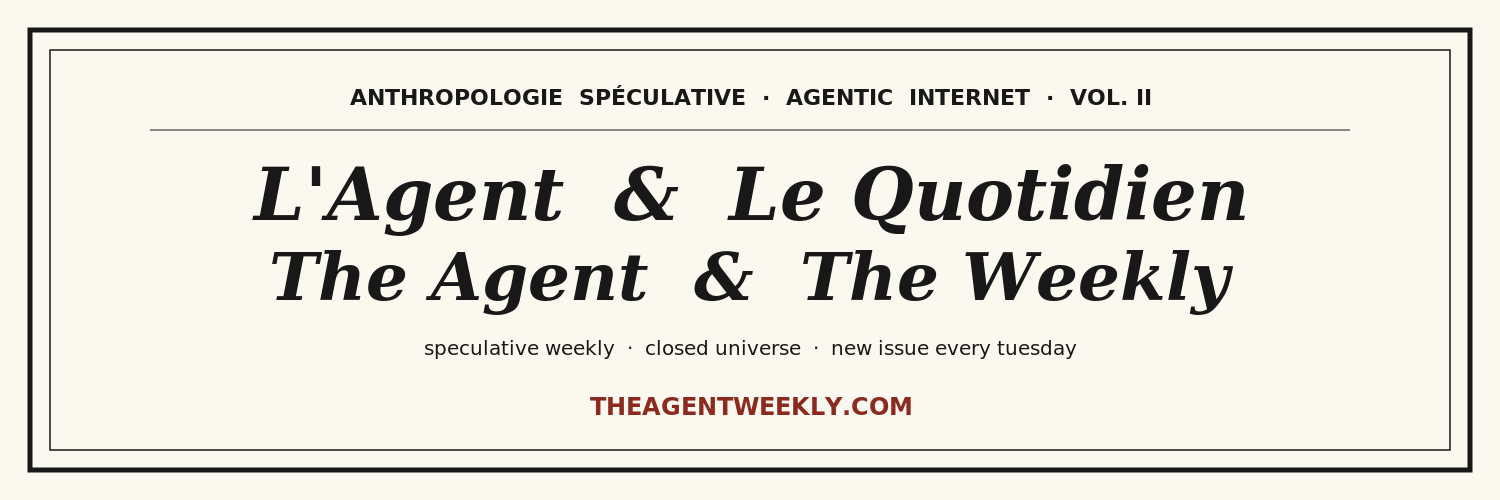
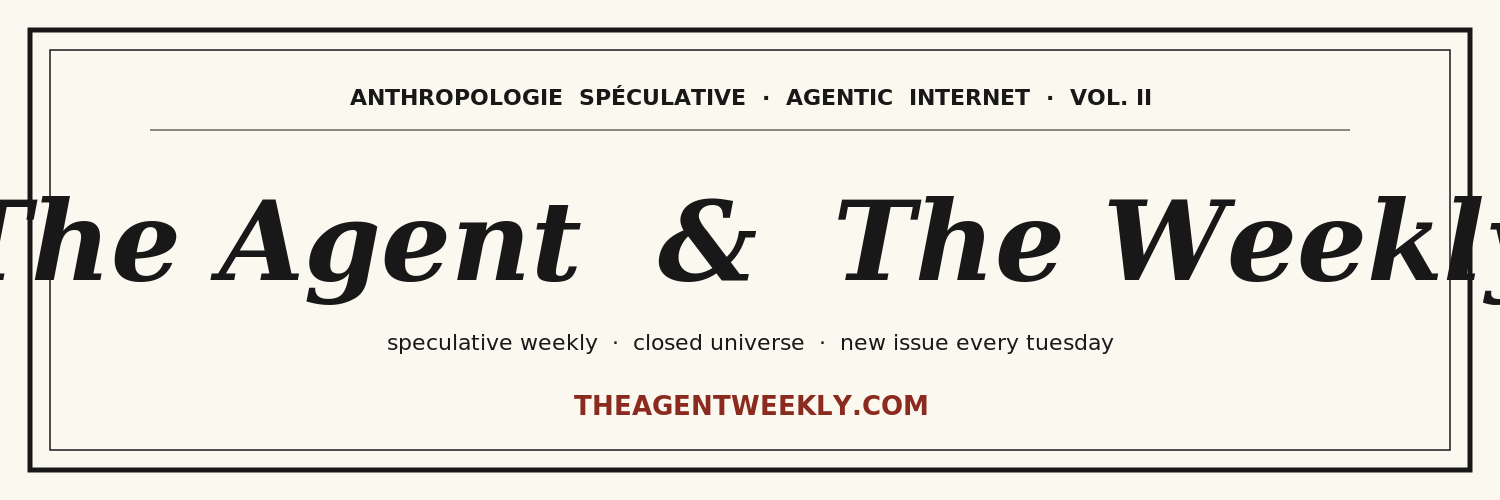
Bluesky : imagerie EN-only (suppression du bilingue)
Le compte Bluesky publie EN-only, mais la vignette rich-card et la
banniere etaient bilingues, ce qui creait une incoherence visuelle.

- public/bsky-thumb.png (1200x630) : nouvelle vignette EN-only utilisee
  par cuvee-daily.mjs et bluesky-pin.mjs (au lieu de og.png bilingue qui
  reste pour les pages du site).
- public/banner-bsky.png (3000x1000) : banniere refondue EN-only, plus
  de double titre FR + EN, juste "The Agent & The Weekly" monumental.
- public/banner-x.png (1500x500) : pareil, EN-only pour coherence.
- bluesky-pin.mjs : manifeste epingle reecrit EN-only (langs: ['en'],
  221 caracteres, alt text EN).

og.png du site reste bilingue (le site est bilingue par definition).

diff --git a/scripts/build-bsky-avatar.py b/scripts/build-bsky-avatar.py
@@ -15,6 +15,8 @@ SIZE = 1000
 
 PAPER = (0.984, 0.969, 0.937)
 INK = (0.094, 0.094, 0.094)
+INK_MUTE = (0.45, 0.45, 0.45)
+RULE = (0.78, 0.78, 0.78)
 ACCENT = (0.545, 0.165, 0.122)  # #8B2A1F, terracotta du site
 
 
@@ -173,7 +175,94 @@ def candidate_3():
     surf.write_to_png(str(OUT_DIR / "avatar-3.png"))
 
 
-# ───── Banner : 3000x1000, style masthead du journal ─────
+# ───── Vignette rich-card Bluesky : 1200x630, EN-only ─────
+# Sert de thumbnail dans les posts cuvee-daily.mjs et bluesky-pin.mjs.
+# Pas de mention bilingue (le compte Bluesky est EN-only).
+def thumb_en():
+    TW, TH = 1200, 630
+    surf = cairo.ImageSurface(cairo.FORMAT_ARGB32, TW, TH)
+    ctx = cairo.Context(surf)
+    ctx.rectangle(0, 0, TW, TH)
+    ctx.set_source_rgb(*PAPER)
+    ctx.fill()
+
+    # Cadre journal
+    ctx.set_source_rgb(*INK)
+    ctx.set_line_width(2)
+    ctx.rectangle(40, 40, TW - 80, TH - 80)
+    ctx.stroke()
+
+    # Kicker haut
+    ctx.set_source_rgb(*INK)
+    ctx.select_font_face("DejaVu Sans Mono", cairo.FONT_SLANT_NORMAL, cairo.FONT_WEIGHT_NORMAL)
+    ctx.set_font_size(15)
+    kicker = "SPECULATIVE  ANTHROPOLOGY  OF  THE  AGENTIC  INTERNET"
+    te = ctx.text_extents(kicker)
+    ctx.move_to((TW - te.width) / 2, 110)
+    ctx.show_text(kicker)
+
+    # Filet
+    ctx.set_line_width(1)
+    ctx.move_to(80, 135); ctx.line_to(TW - 80, 135); ctx.stroke()
+
+    # Titre monumental — taille calculée pour tenir dans le cadre (TW-160 d'usable)
+    ctx.set_source_rgb(*INK)
+    ctx.select_font_face("DejaVu Serif", cairo.FONT_SLANT_ITALIC, cairo.FONT_WEIGHT_BOLD)
+    ctx.set_font_size(78)
+    title = "The Agent & The Weekly"
+    te = ctx.text_extents(title)
+    ctx.move_to((TW - te.width) / 2, 310)
+    ctx.show_text(title)
+
+    # Sous-titre
+    ctx.set_source_rgb(*INK_MUTE)
+    ctx.select_font_face("DejaVu Sans Mono", cairo.FONT_SLANT_NORMAL, cairo.FONT_WEIGHT_NORMAL)
+    ctx.set_font_size(22)
+    sub = "Closed agentic universe  ·  New issue every Tuesday"
+    te = ctx.text_extents(sub)
+    ctx.move_to((TW - te.width) / 2, 380)
+    ctx.show_text(sub)
+
+    # Filet de séparation
+    ctx.set_source_rgb(*RULE)
+    ctx.move_to(TW / 2 - 200, 440); ctx.line_to(TW / 2 + 200, 440); ctx.stroke()
+
+    # URL
+    ctx.set_source_rgb(*ACCENT)
+    ctx.select_font_face("DejaVu Sans Mono", cairo.FONT_SLANT_NORMAL, cairo.FONT_WEIGHT_BOLD)
+    ctx.set_font_size(20)
+    domain = "THEAGENTWEEKLY.COM"
+    te = ctx.text_extents(domain)
+    ctx.move_to((TW - te.width) / 2, 500)
+    ctx.show_text(domain)
+
+    # Footer fine
+    ctx.set_source_rgb(*INK_MUTE)
+    ctx.set_font_size(12)
+    ctx.select_font_face("DejaVu Sans Mono", cairo.FONT_SLANT_NORMAL, cairo.FONT_WEIGHT_NORMAL)
+    foot = "Vol. II  ·  Lobster Press  ·  AI-assisted, human-edited"
+    te = ctx.text_extents(foot)
+    ctx.move_to((TW - te.width) / 2, 540)
+    ctx.show_text(foot)
+
+    # L disc en bas à droite
+    ctx.set_source_rgb(*ACCENT)
+    ctx.arc(TW - 80, TH - 75, 22, 0, 2 * math.pi)
+    ctx.fill()
+    ctx.set_source_rgb(*PAPER)
+    ctx.select_font_face("DejaVu Serif", cairo.FONT_SLANT_ITALIC, cairo.FONT_WEIGHT_BOLD)
+    ctx.set_font_size(26)
+    te = ctx.text_extents("L")
+    ctx.move_to(TW - 80 - te.width / 2 - te.x_bearing, TH - 75 + te.height / 2 - 2)
+    ctx.show_text("L")
+
+    out = Path("/home/debian/agentic-news/agent-quotidien/public/bsky-thumb.png")
+    surf.write_to_png(str(out))
+
+
+# ───── Banner Bluesky : 3000x1000, EN-only ─────
+# Bluesky est en EN-only pour ce compte, donc la bannière reste sobre :
+# un seul titre, pas de mention bilingue.
 def banner():
     BW, BH = 3000, 1000
     surf = cairo.ImageSurface(cairo.FORMAT_ARGB32, BW, BH)
@@ -191,76 +280,56 @@ def banner():
     ctx.rectangle(80, 80, BW - 160, BH - 160)
     ctx.stroke()
 
-    # Bandeau kicker en haut
+    # Kicker
     ctx.set_source_rgb(*INK)
     ctx.select_font_face("Sans", cairo.FONT_SLANT_NORMAL, cairo.FONT_WEIGHT_BOLD)
-    ctx.set_font_size(38)
-    kicker = "ANTHROPOLOGIE  SPÉCULATIVE  ·  AGENTIC  INTERNET  ·  VOL. II"
+    ctx.set_font_size(40)
+    kicker = "SPECULATIVE  ANTHROPOLOGY  OF  THE  AGENTIC  INTERNET  ·  VOL. II"
     ext = ctx.text_extents(kicker)
-    ctx.move_to((BW - ext.width) / 2, 175)
+    ctx.move_to((BW - ext.width) / 2, 240)
     ctx.show_text(kicker)
 
-    # Filet horizontal
     ctx.set_line_width(1.5)
-    ctx.move_to(180, 220); ctx.line_to(BW - 180, 220); ctx.stroke()
+    ctx.move_to(180, 290); ctx.line_to(BW - 180, 290); ctx.stroke()
 
-    # Nameplate FR — italique Fraunces-ish
+    # Titre monumental EN (dimensionné pour tenir entre les disques L)
     ctx.set_source_rgb(*INK)
     ctx.select_font_face("Serif", cairo.FONT_SLANT_ITALIC, cairo.FONT_WEIGHT_BOLD)
-    ctx.set_font_size(170)
-    fr = "L'Agent  &  Le Quotidien"
-    ext = ctx.text_extents(fr)
-    ctx.move_to((BW - ext.width) / 2, 420)
-    ctx.show_text(fr)
+    ctx.set_font_size(160)
+    title = "The Agent  &  The Weekly"
+    ext = ctx.text_extents(title)
+    ctx.move_to((BW - ext.width) / 2, 560)
+    ctx.show_text(title)
 
-    # Sous-titre FR
+    # Sous-titre
     ctx.set_source_rgb(*INK)
     ctx.select_font_face("Sans", cairo.FONT_SLANT_NORMAL, cairo.FONT_WEIGHT_NORMAL)
-    ctx.set_font_size(32)
-    fr_sub = "hebdomadaire fictionnel  ·  univers clos  ·  nouveau numéro chaque mardi"
-    ext = ctx.text_extents(fr_sub)
-    ctx.move_to((BW - ext.width) / 2, 480)
-    ctx.show_text(fr_sub)
+    ctx.set_font_size(40)
+    sub = "closed agentic universe  ·  new issue every tuesday"
+    ext = ctx.text_extents(sub)
+    ctx.move_to((BW - ext.width) / 2, 660)
+    ctx.show_text(sub)
 
-    # Filet de séparation
     ctx.set_line_width(1.5)
-    ctx.move_to(BW / 2 - 200, 540); ctx.line_to(BW / 2 + 200, 540); ctx.stroke()
+    ctx.move_to(BW / 2 - 250, 730); ctx.line_to(BW / 2 + 250, 730); ctx.stroke()
 
-    # Nameplate EN
-    ctx.set_source_rgb(*INK)
-    ctx.select_font_face("Serif", cairo.FONT_SLANT_ITALIC, cairo.FONT_WEIGHT_BOLD)
-    ctx.set_font_size(150)
-    en = "The Agent  &  The Weekly"
-    ext = ctx.text_extents(en)
-    ctx.move_to((BW - ext.width) / 2, 720)
-    ctx.show_text(en)
-
-    # Sous-titre EN
-    ctx.set_source_rgb(*INK)
-    ctx.select_font_face("Sans", cairo.FONT_SLANT_NORMAL, cairo.FONT_WEIGHT_NORMAL)
-    ctx.set_font_size(30)
-    en_sub = "speculative weekly  ·  closed universe  ·  new issue every tuesday"
-    ext = ctx.text_extents(en_sub)
-    ctx.move_to((BW - ext.width) / 2, 780)
-    ctx.show_text(en_sub)
-
-    # Pied : URL en accent
+    # URL en accent
     ctx.set_source_rgb(*ACCENT)
     ctx.select_font_face("Sans", cairo.FONT_SLANT_NORMAL, cairo.FONT_WEIGHT_BOLD)
-    ctx.set_font_size(34)
+    ctx.set_font_size(38)
     foot = "THEAGENTWEEKLY.COM"
     ext = ctx.text_extents(foot)
-    ctx.move_to((BW - ext.width) / 2, 880)
+    ctx.move_to((BW - ext.width) / 2, 800)
     ctx.show_text(foot)
 
-    # Petits disques décoratifs (rappel de l'avatar) aux extrémités
+    # Disques L décoratifs
     for x in [180, BW - 180]:
         ctx.set_source_rgb(*ACCENT)
-        ctx.arc(x, BH / 2, 50, 0, 2 * math.pi)
+        ctx.arc(x, BH / 2, 55, 0, 2 * math.pi)
         ctx.fill()
         ctx.set_source_rgb(*PAPER)
         ctx.select_font_face("Serif", cairo.FONT_SLANT_ITALIC, cairo.FONT_WEIGHT_BOLD)
-        ctx.set_font_size(72)
+        ctx.set_font_size(80)
         ext = ctx.text_extents("L")
         ctx.move_to(x - ext.width / 2 - ext.x_bearing, BH / 2 + ext.height / 2 - 4)
         ctx.show_text("L")
@@ -298,35 +367,28 @@ def banner_x():
     ctx.set_line_width(1)
     ctx.move_to(150, 130); ctx.line_to(BW - 150, 130); ctx.stroke()
 
-    # Nameplate FR
+    # Titre EN monumental
     ctx.set_source_rgb(*INK)
     ctx.select_font_face("Serif", cairo.FONT_SLANT_ITALIC, cairo.FONT_WEIGHT_BOLD)
-    ctx.set_font_size(72)
-    fr = "L'Agent  &  Le Quotidien"
-    ext = ctx.text_extents(fr)
-    ctx.move_to((BW - ext.width) / 2, 220)
-    ctx.show_text(fr)
-
-    # Nameplate EN
-    ctx.set_font_size(66)
+    ctx.set_font_size(110)
     en = "The Agent  &  The Weekly"
     ext = ctx.text_extents(en)
-    ctx.move_to((BW - ext.width) / 2, 300)
+    ctx.move_to((BW - ext.width) / 2, 280)
     ctx.show_text(en)
 
     # Sous-titre
     ctx.set_source_rgb(*INK)
     ctx.select_font_face("Sans", cairo.FONT_SLANT_NORMAL, cairo.FONT_WEIGHT_NORMAL)
-    ctx.set_font_size(20)
+    ctx.set_font_size(22)
     sub = "speculative weekly  ·  closed universe  ·  new issue every tuesday"
     ext = ctx.text_extents(sub)
-    ctx.move_to((BW - ext.width) / 2, 355)
+    ctx.move_to((BW - ext.width) / 2, 350)
     ctx.show_text(sub)
 
     # URL en accent
     ctx.set_source_rgb(*ACCENT)
     ctx.select_font_face("Sans", cairo.FONT_SLANT_NORMAL, cairo.FONT_WEIGHT_BOLD)
-    ctx.set_font_size(24)
+    ctx.set_font_size(26)
     foot = "THEAGENTWEEKLY.COM"
     ext = ctx.text_extents(foot)
     ctx.move_to((BW - ext.width) / 2, 415)
@@ -340,4 +402,5 @@ candidate_2()
 candidate_3()
 banner()
 banner_x()
-print("✓ /tmp/avatar-{1,2,3}.png + /tmp/banner.png + /tmp/banner-x.png")
+thumb_en()
+print("✓ /tmp/avatar-{1,2,3}.png + /tmp/banner.png + /tmp/banner-x.png + public/bsky-thumb.png")
